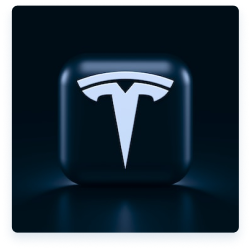
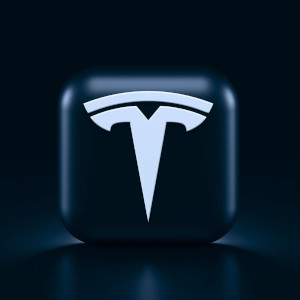
change tesla image

diff --git a/src/components/Customers/Customers.module.css b/src/components/Customers/Customers.module.css
@@ -9,6 +9,11 @@
   gap: 3.375rem;
 }
 
+.customers > img {
+  border-radius: 0.5rem;
+  box-shadow: 0 3px 3px rgba(0, 0, 0, 0.25);
+}
+
 .content > p {
   color: #717171;
   margin: 0;
